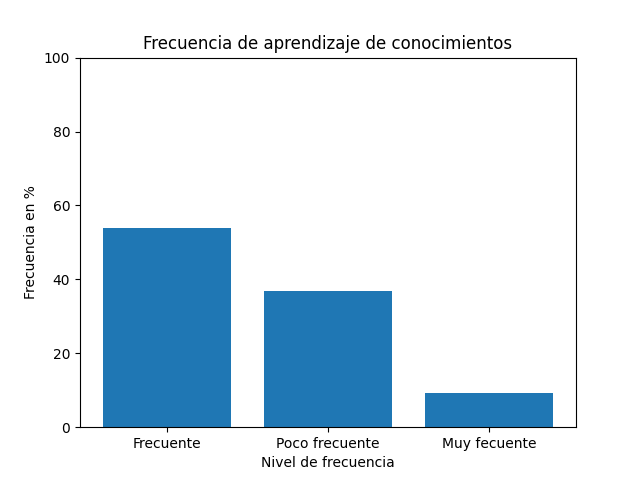
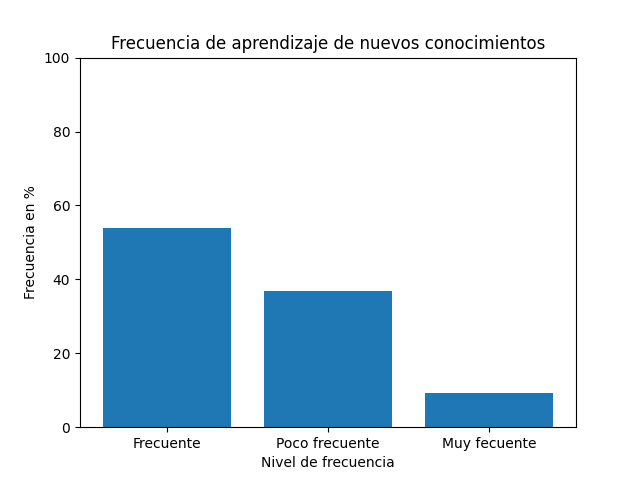
Debug

Changed region(s): [[0.1562, 0.0625, 0.8438, 0.125]]

diff --git a/make_graphics.py b/make_graphics.py
@@ -78,20 +78,11 @@ plt.savefig("./fig/habilidades_blandas.png", dpi=None, facecolor='w', edgecolor=
 plt.clf()
 
 ############## Tecnologias y Frecuencia ##############
-fre_act_set = list(set(fre_actualizacion_tec_conocidas))
-fre_apr_set = list(set(fre_aprendizaje_nueva_tec))
+fre_actualizacion_tec_conocidas = np.array(fre_actualizacion_tec_conocidas)
+fre_aprendizaje_nueva_tec = np.array(fre_aprendizaje_nueva_tec)
 
-frecuencia_act = [0] * len(fre_act_set)
-frecuencia_apr = [0] * len(fre_apr_set)
-
-for frecuencia in fre_actualizacion_tec_conocidas:
-    frecuencia_act[fre_act_set.index(frecuencia)] = frecuencia_act[fre_act_set.index(frecuencia)] + 1
-
-for frecuencia in fre_aprendizaje_nueva_tec:
-    frecuencia_apr[fre_apr_set.index(frecuencia)] = frecuencia_apr[fre_apr_set.index(frecuencia)] + 1
-
-frecuencia_act = np.array(frecuencia_act)
-frecuencia_apr = np.array(frecuencia_apr)
+fre_act_set, frecuencia_act = np.unique(fre_actualizacion_tec_conocidas, return_counts=True)
+fre_apr_set, frecuencia_apr = np.unique(fre_aprendizaje_nueva_tec, return_counts=True)
 
 frecuencia_act = (frecuencia_act / len(poblacion)) * 100
 frecuencia_apr = (frecuencia_apr / len(poblacion)) * 100
@@ -124,7 +115,7 @@ plt.clf()
 
 
 plt.bar('Frecuencia', 'Valor',data=fre_apr_df_ordenado)
-plt.title("Frecuencia de aprendizaje de conocimientos")
+plt.title("Frecuencia de aprendizaje de nuevos conocimientos")
 plt.xlabel("Nivel de frecuencia")
 plt.ylabel("Frecuencia en %")
 plt.ylim([0,100])
